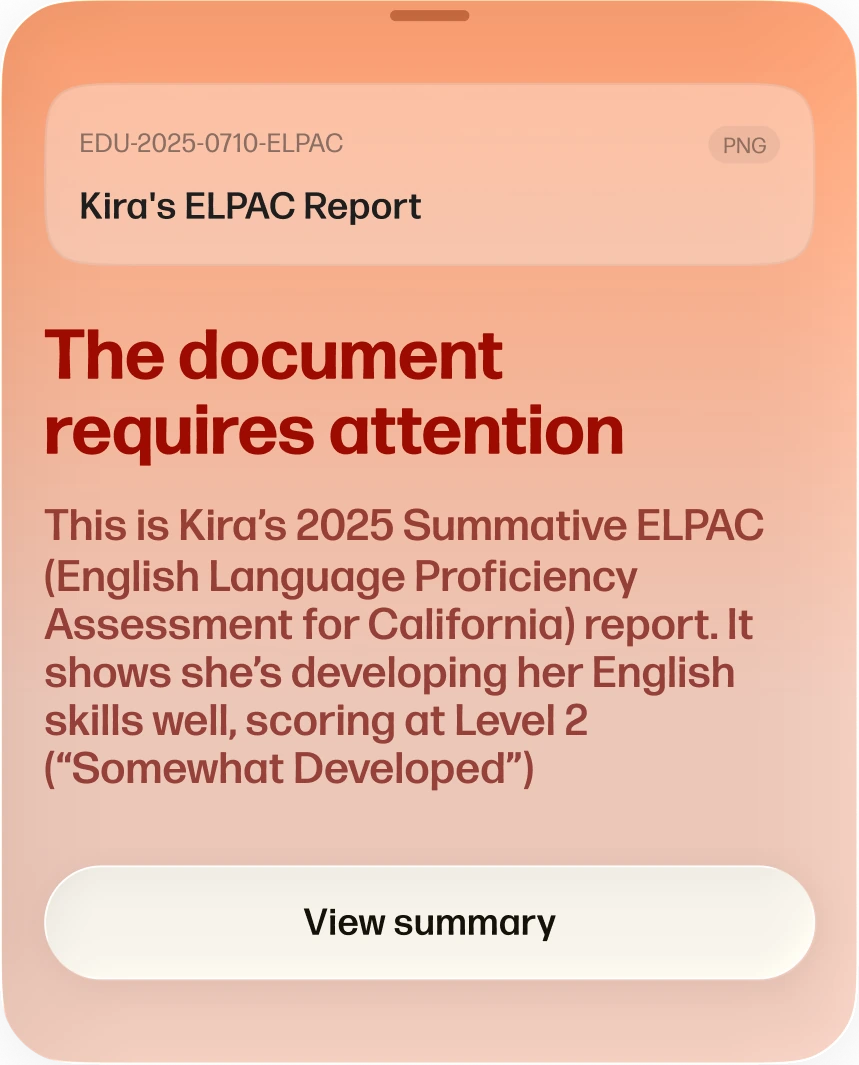
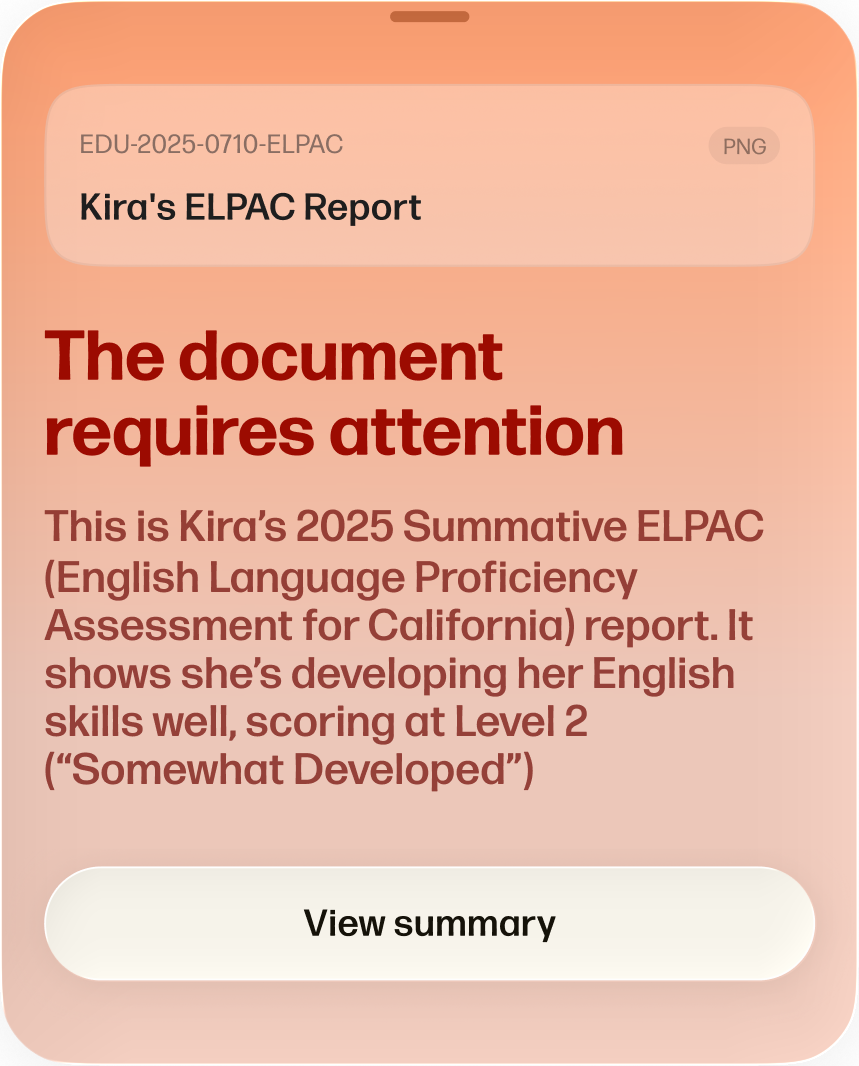
feed cards: lossless WebP to kill the edge halo
The faint "shadow" at the card seams was a lossy-WebP halo around the cards'
transparent edges. Re-export the three cards as lossless WebP (and trim past
the near-invisible baked shadow) so the edges are clean on the plate.

diff --git a/hooh.html b/hooh.html
@@ -139,12 +139,12 @@
           <div class="case__slider" role="group" aria-label="Swipe through the summary cards and documents dashboard">
             <div class="case__slide case__slide--feed">
               <div class="case__feed-track">
-                <img class="case__feed-card" src="assets/case-feed-3.webp?v=1" alt="" aria-hidden="true" loading="lazy">
-                <img class="case__feed-card" src="assets/case-feed-1.webp?v=1" alt="Maria's blood test — the document requires attention" loading="lazy">
-                <img class="case__feed-card" src="assets/case-feed-2.webp?v=1" alt="Kira's ELPAC report — the document requires attention" loading="lazy">
-                <img class="case__feed-card" src="assets/case-feed-3.webp?v=1" alt="Vehicle inspection checklist — everything looks good" loading="lazy">
-                <img class="case__feed-card" src="assets/case-feed-1.webp?v=1" alt="" aria-hidden="true" loading="lazy">
-                <img class="case__feed-card" src="assets/case-feed-2.webp?v=1" alt="" aria-hidden="true" loading="lazy">
+                <img class="case__feed-card" src="assets/case-feed-3.webp?v=2" alt="" aria-hidden="true" loading="lazy">
+                <img class="case__feed-card" src="assets/case-feed-1.webp?v=2" alt="Maria's blood test — the document requires attention" loading="lazy">
+                <img class="case__feed-card" src="assets/case-feed-2.webp?v=2" alt="Kira's ELPAC report — the document requires attention" loading="lazy">
+                <img class="case__feed-card" src="assets/case-feed-3.webp?v=2" alt="Vehicle inspection checklist — everything looks good" loading="lazy">
+                <img class="case__feed-card" src="assets/case-feed-1.webp?v=2" alt="" aria-hidden="true" loading="lazy">
+                <img class="case__feed-card" src="assets/case-feed-2.webp?v=2" alt="" aria-hidden="true" loading="lazy">
               </div>
             </div>
             <div class="case__slide"><img class="case__shot case__shot--desktop" src="assets/case-uxB-s2.webp?v=7" alt="Web documents folder view with categorized document cards" loading="lazy"></div>
